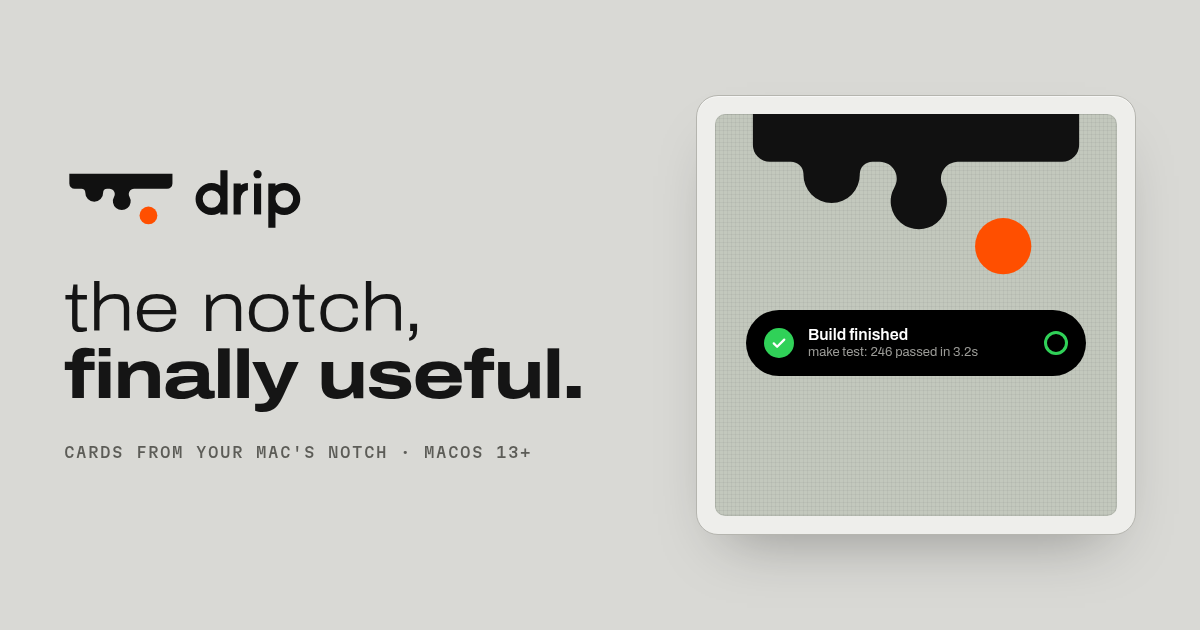
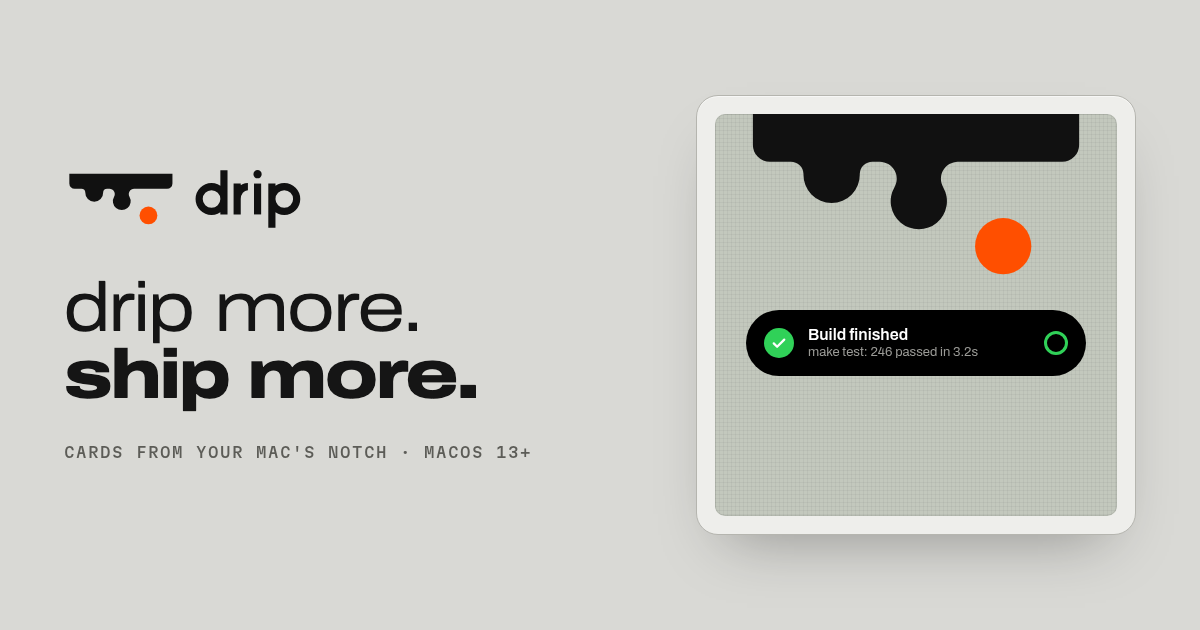
feat(web): hero headline reads "drip more. ship more." (#81)
* feat(web): hero headline reads drip more. ship more.

* no-mistakes(review): Redraw share card and alt text with new headline

* no-mistakes(test): Keep bold "ship more." whole on narrow screens

Changed region(s): [[0.0308, 0.4524, 0.4933, 0.6635]]

diff --git a/web/public/index.html b/web/public/index.html
@@ -15,12 +15,12 @@
 <meta property="og:image:type" content="image/png">
 <meta property="og:image:width" content="1200">
 <meta property="og:image:height" content="630">
-<meta property="og:image:alt" content="drip's logo, a notch dripping two beads and an orange drop, beside the words the notch, finally useful, and a small screen showing a Build finished card.">
+<meta property="og:image:alt" content="drip's logo, a notch dripping two beads and an orange drop, beside the words drip more. ship more. and a small screen showing a Build finished card.">
 <meta name="twitter:card" content="summary_large_image">
 <meta name="twitter:title" content="drip - Mac notch alerts for builds, deploys and AI agents">
 <meta name="twitter:description" content="Free, open-source macOS CLI. One command shows a native card from the MacBook notch when a build, deploy, test or Claude Code session finishes or needs you.">
 <meta name="twitter:image" content="https://drip.jrnxf.co/og.png">
-<meta name="twitter:image:alt" content="drip's logo, a notch dripping two beads and an orange drop, beside the words the notch, finally useful, and a small screen showing a Build finished card.">
+<meta name="twitter:image:alt" content="drip's logo, a notch dripping two beads and an orange drop, beside the words drip more. ship more. and a small screen showing a Build finished card.">
 <meta name="theme-color" content="#111111" media="(prefers-color-scheme: dark)">
 <meta name="theme-color" content="#d9d9d5" media="(prefers-color-scheme: light)">
 <!-- The mark: the notch, two beads and a falling drop (masters in docs/logo). favicon.ico holds a
@@ -74,7 +74,7 @@
     <section class="hero" aria-label="drip">
       <div class="intro">
         <div class="mb-18 flex flex-wrap gap-14"><span class="type-tag border border-ink bg-ink px-7 py-4 text-bg">drip</span><span class="type-tag border border-ink px-7 py-4">macOS 13+</span><span class="type-tag border border-ink px-7 py-4">MIT</span></div>
-        <h1 class="type-hero m-0">the notch, <b>finally useful.</b></h1>
+        <h1 class="type-hero m-0">drip more. <b class="whitespace-nowrap">ship more.</b></h1>
         <p class="mt-22 mb-0 max-w-[40ch] text-[18px] text-ink-2 narrow:text-[17px] [&_b]:text-ink">drip is a free, open-source command-line tool for macOS that shows <b>a native card from your MacBook's notch</b> when a build, deploy, test run or coding agent (Claude Code, Codex, Gemini CLI) finishes or needs you. It is not Notification Center, so it needs no permissions.</p>
         <div class="plate"><code>brew install jrnxf/tap/drip</code><button type="button" class="copy-btn" data-copy="brew install jrnxf/tap/drip" aria-label="Copy the install command">copy</button></div>
       </div>
